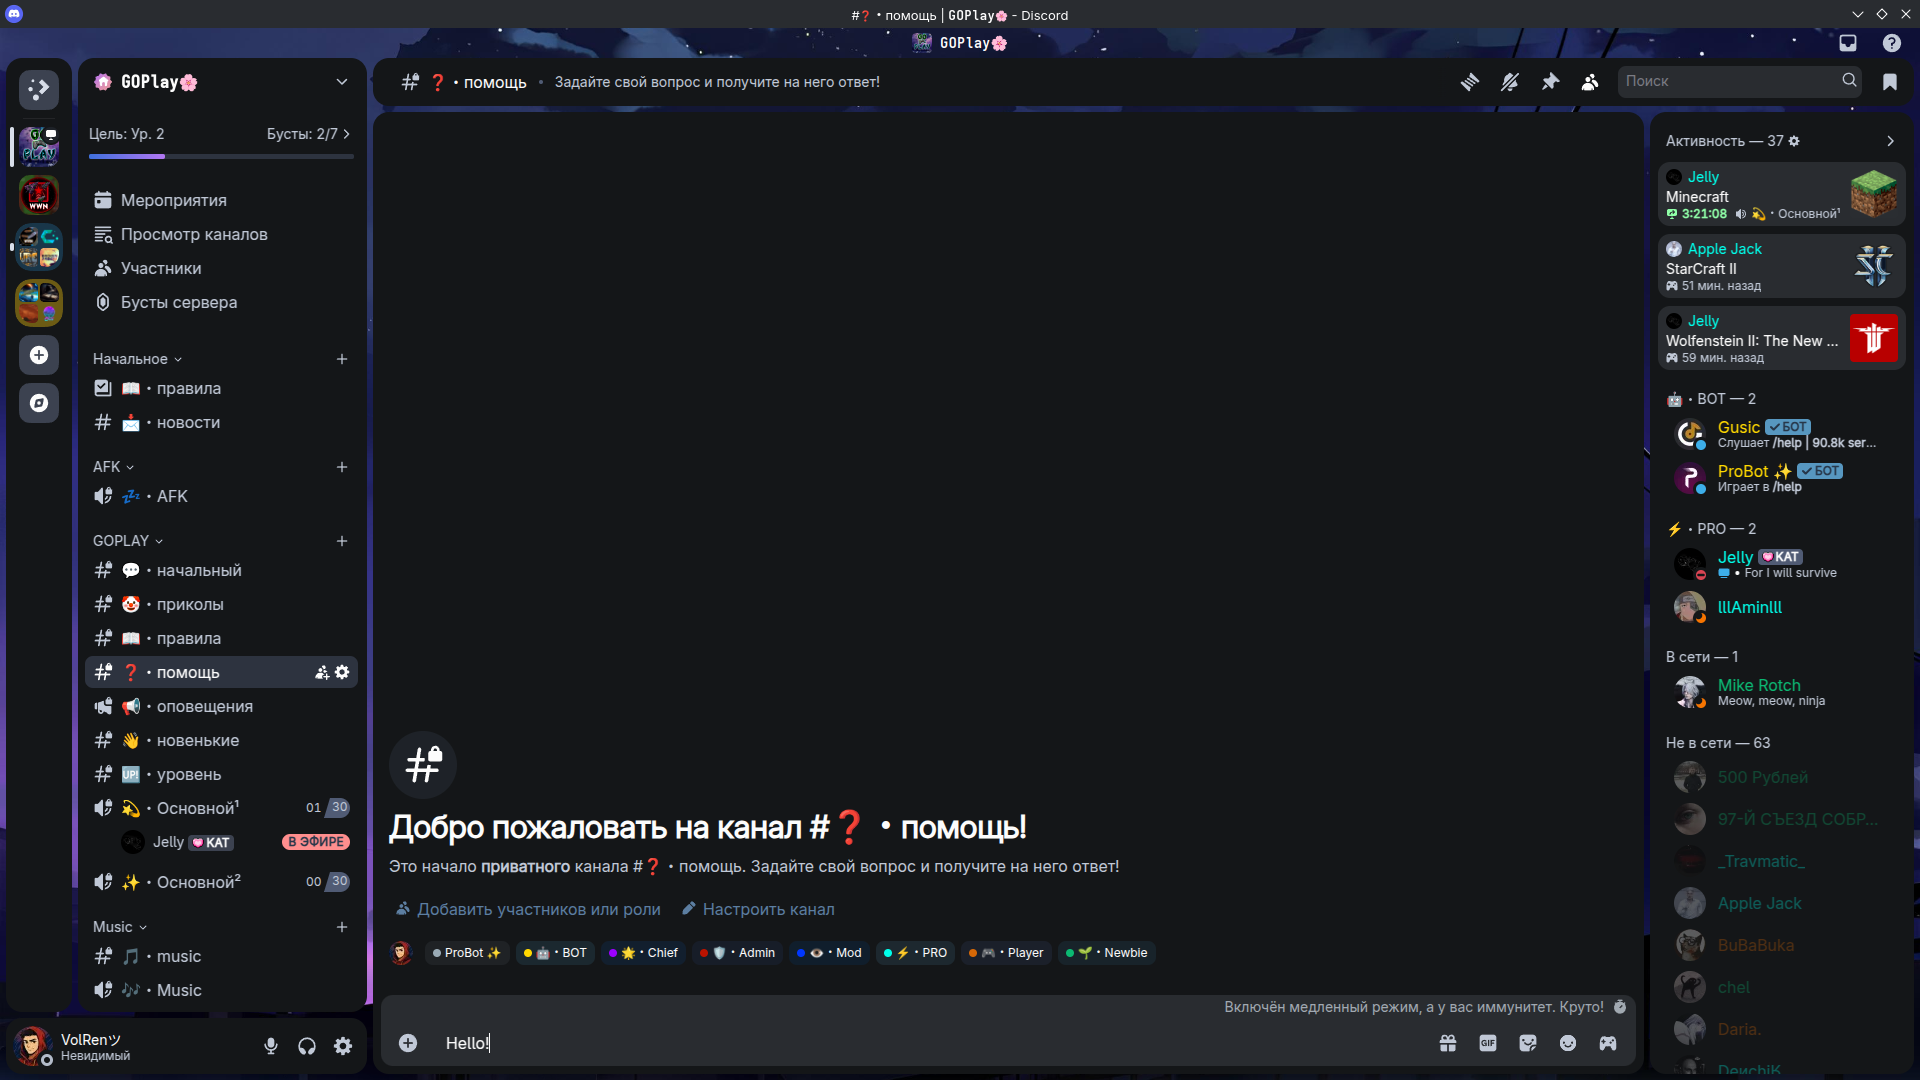
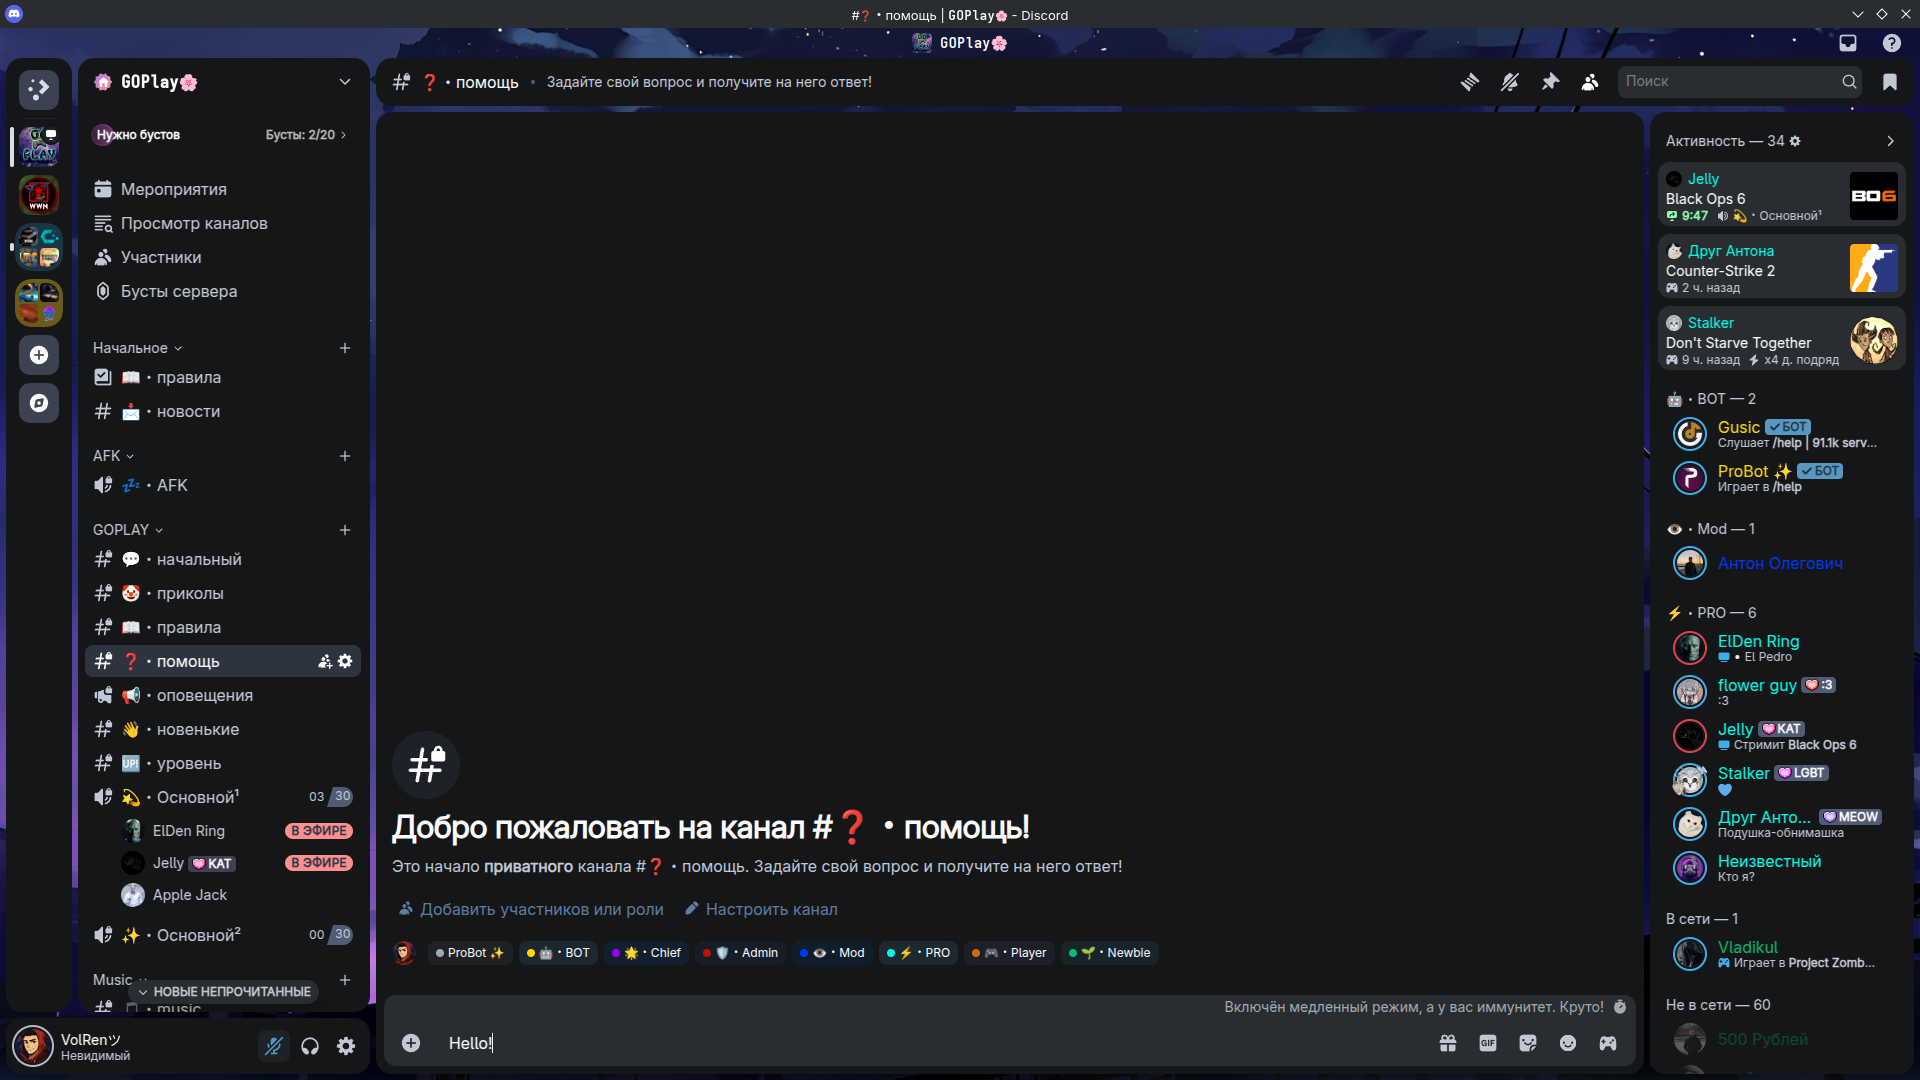
Update

diff --git a/colors/DisEcho.css b/colors/DisEcho.css
@@ -30,7 +30,7 @@ body {
     --text-2: oklch(0.93 0.02 220); /* Заголовки и важный текст */
     --text-3: oklch(1 0 0); /* Обычный текст */
     --text-4: oklch(0.84 0.012 235 / 80%); /* Кнопки с иконками и каналы */
-    --text-5: oklch(0.7 0.01 240 / 35%); /* Приглушенные каналы/чаты и временные метки */
+    --text-5: oklch(0.8947 0.012 235 / 70%); /* Приглушенные каналы/чаты и временные метки */
 
     /* Фоны и темные цвета */
     --bg-1: oklch(0.22 0.04 250 / 60%); /* Темные кнопки при нажатии */
@@ -59,5 +59,5 @@ body {
     --dnd: oklch(0.52 0.18 15);
     --idle: oklch(0.78 0.16 95);
     --streaming: oklch(0.58 0.16 230);
-    --offline: oklch(0.4822 0.118 300.71);
+    --offline: oklch(0.592 0.028 270.8);
 }
